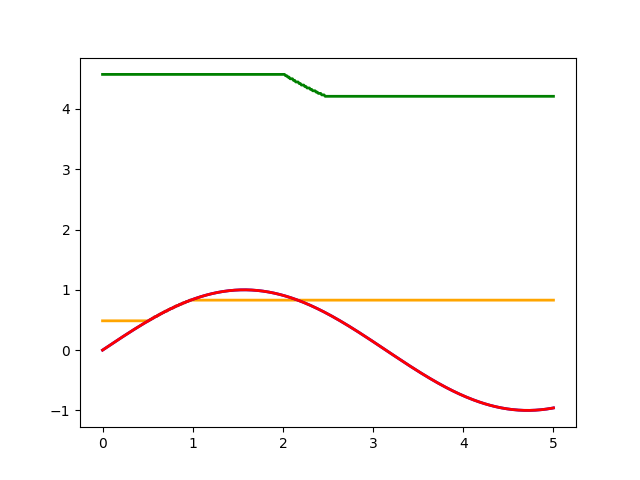
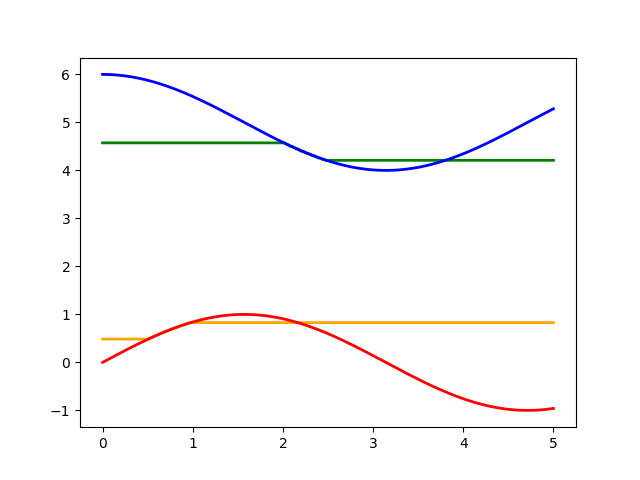
adding evaluation graphs

diff --git a/server/server.py b/server/server.py
@@ -138,7 +138,7 @@ def model_evaluation():
     plt.figure()
     plt.plot(X_val, y_1, color="orange", label="validation data cluster 0", linewidth=2)
     plt.plot(X_val, y_2, color="green", label="validation data cluster 0", linewidth=2)
-    plt.plot(all_client_models["processor-7"]["Xval"], all_client_models["processor-0"]["yval"], color="blue", label="validation data cluster 0", linewidth=2)
+    plt.plot(all_client_models["processor-8"]["Xval"], all_client_models["processor-2"]["yval"], color="blue", label="validation data cluster 0", linewidth=2)
     plt.plot(all_client_models["processor-15"]["Xval"], all_client_models["processor-11"]["yval"], color="red", label="val data second cluster", linewidth=2)
     plt.savefig('/app/validation.png')
     print(f"Validation graph is successfully saved in /app/validation.png")
